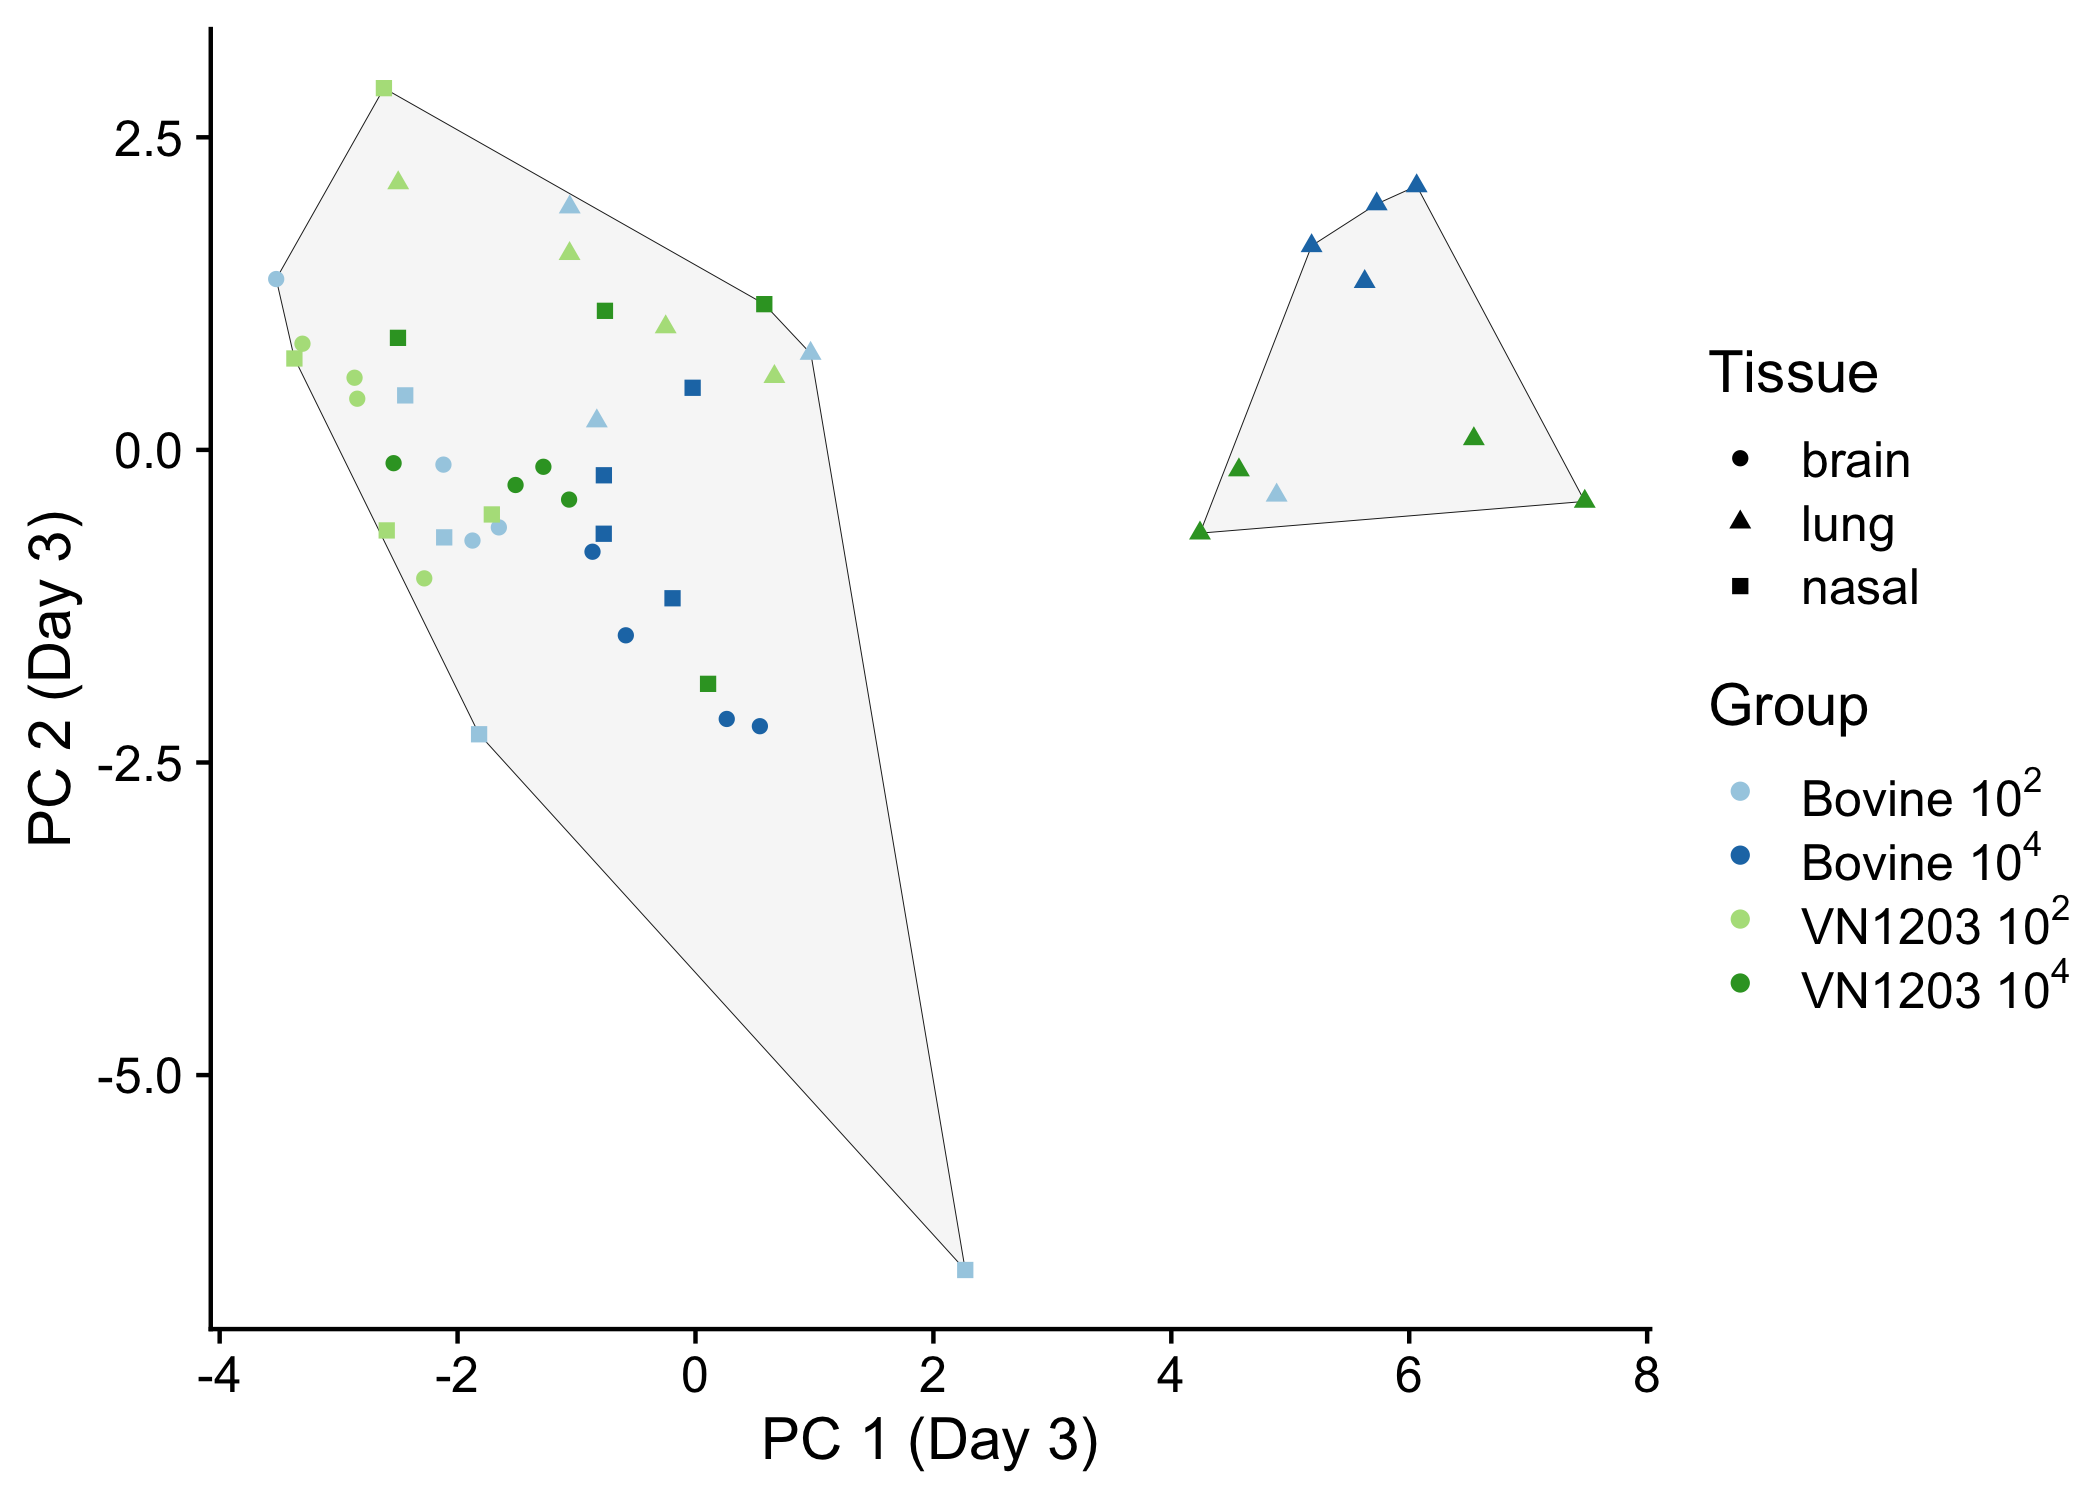
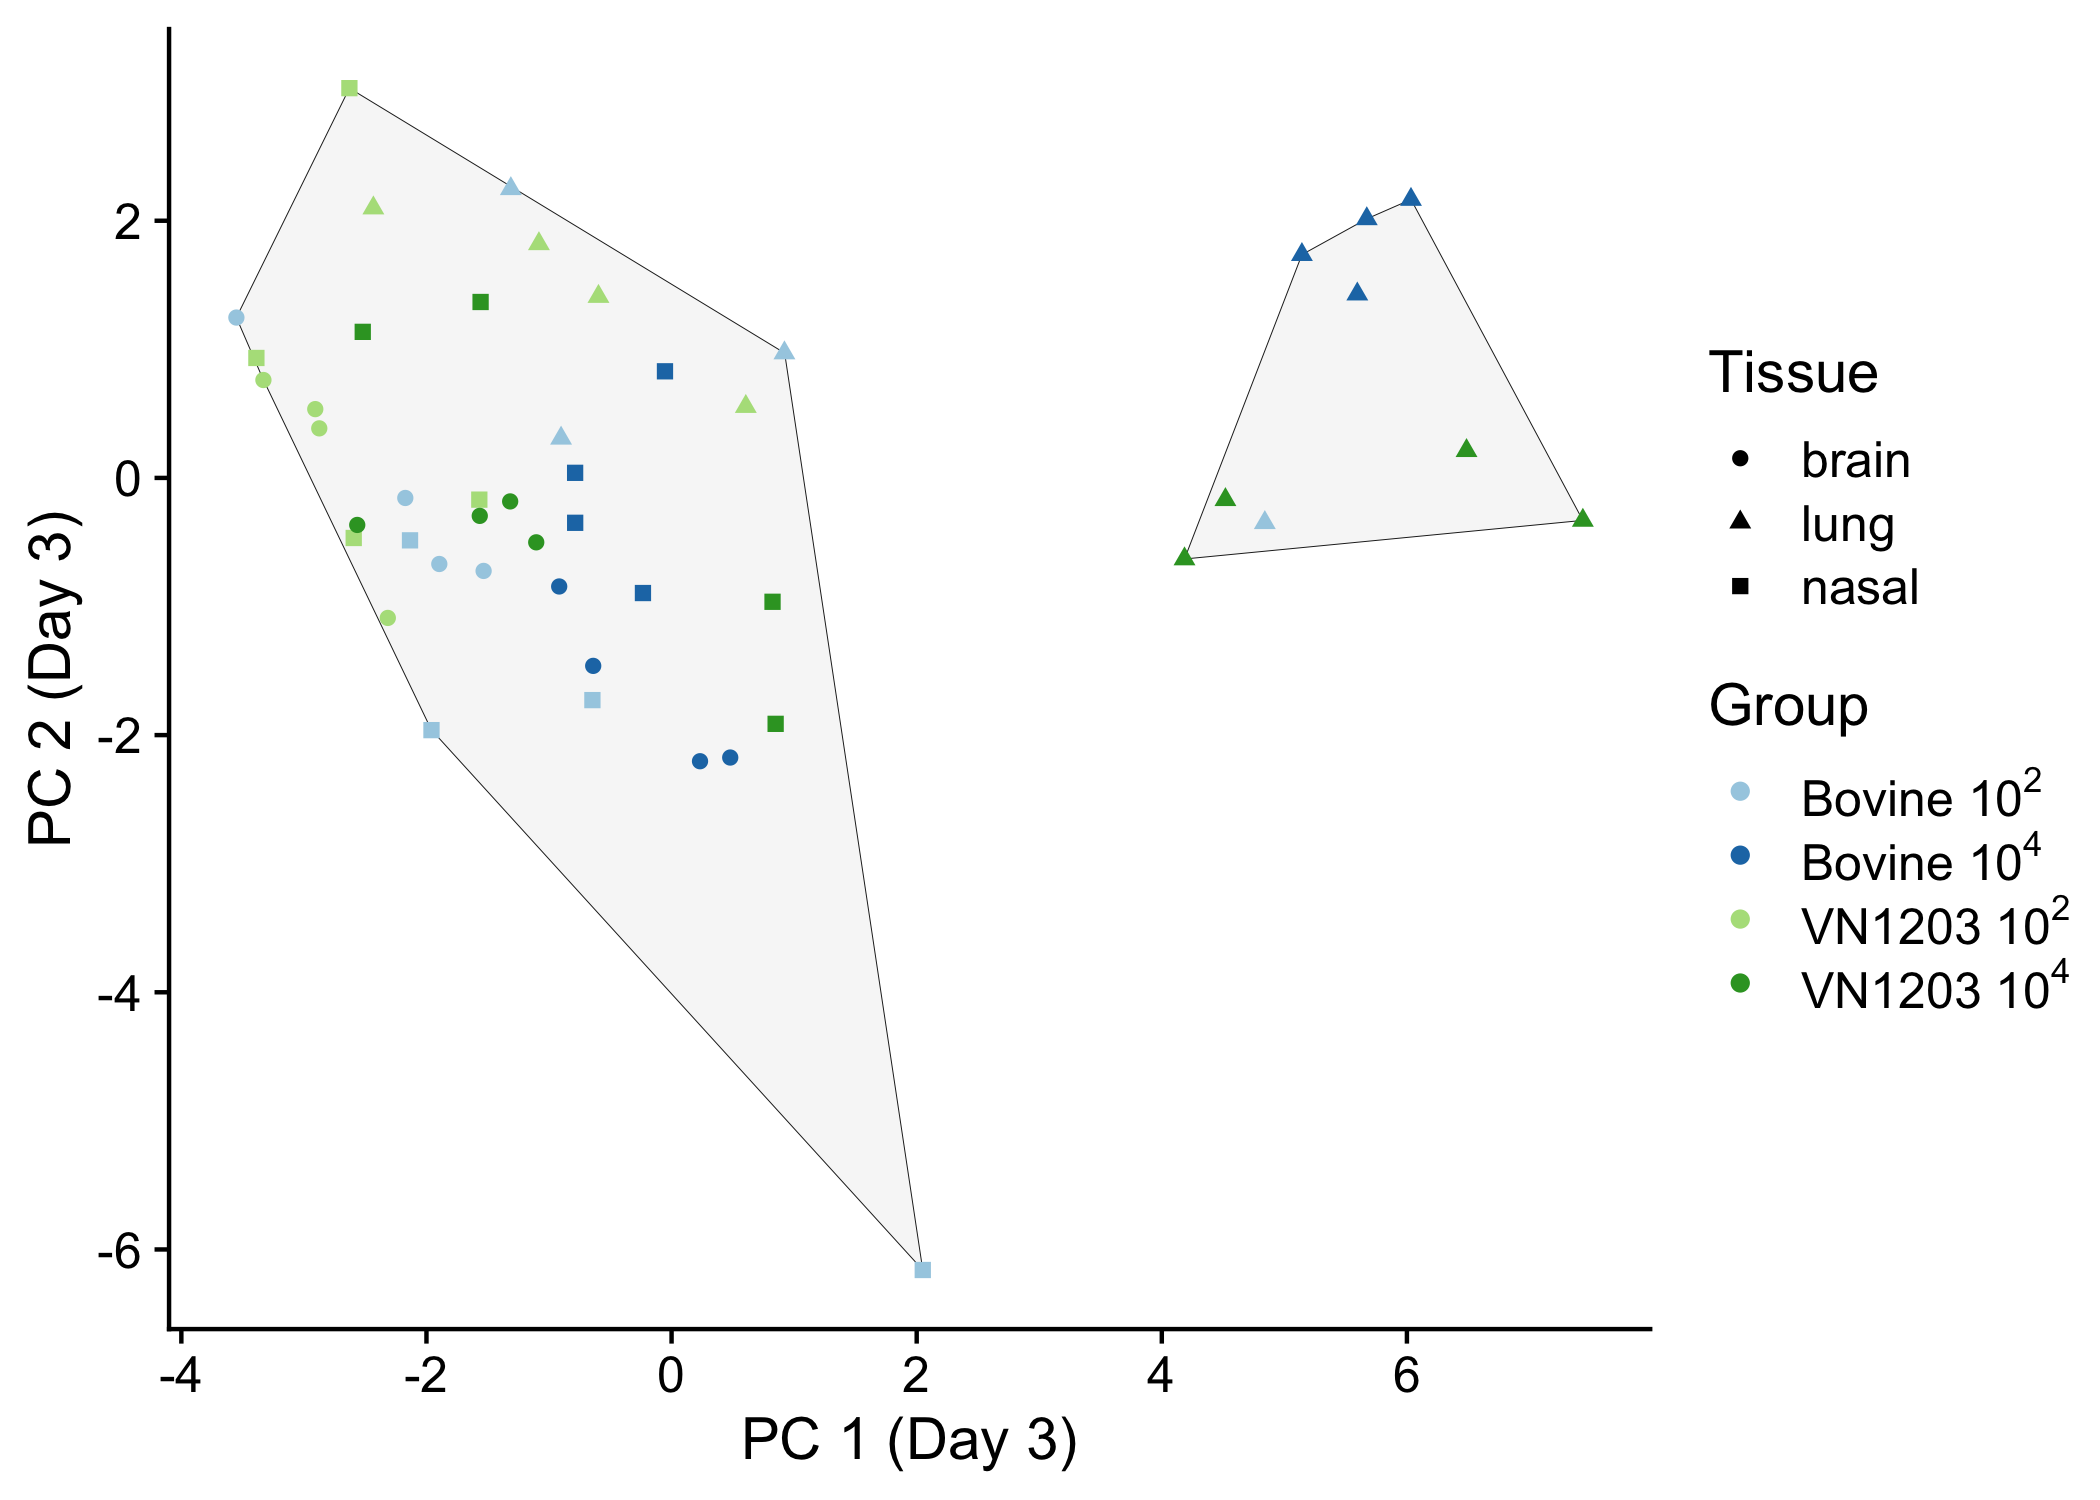
Add PCA % variability

diff --git a/README.md b/README.md
@@ -14,7 +14,9 @@ after publication.
 
 The Principal Component Analysis (PCA) of viral titer, protein abundance
 and mRNA levels in brain, lung and nasal turbinates of mice, separated
-by day of harvest (day 3 and endpoint).
+by day of harvest (day 3 and endpoint). The first two principal
+components accounted for 36% and 48% of total sample variability in day
+3 and endpoint samples, respectively.
 
 Analysis at 3 days post inoculation resulted in two distinct clusters:
 the smaller cluster contained only lung samples, all but one of which
